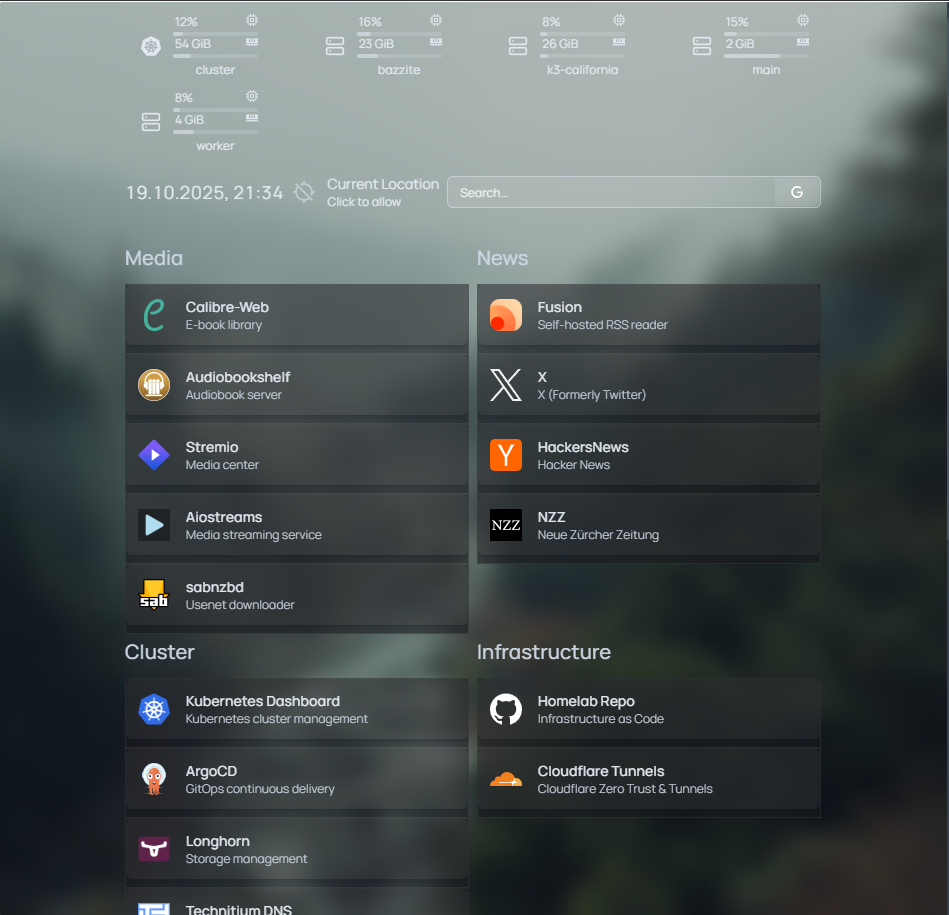
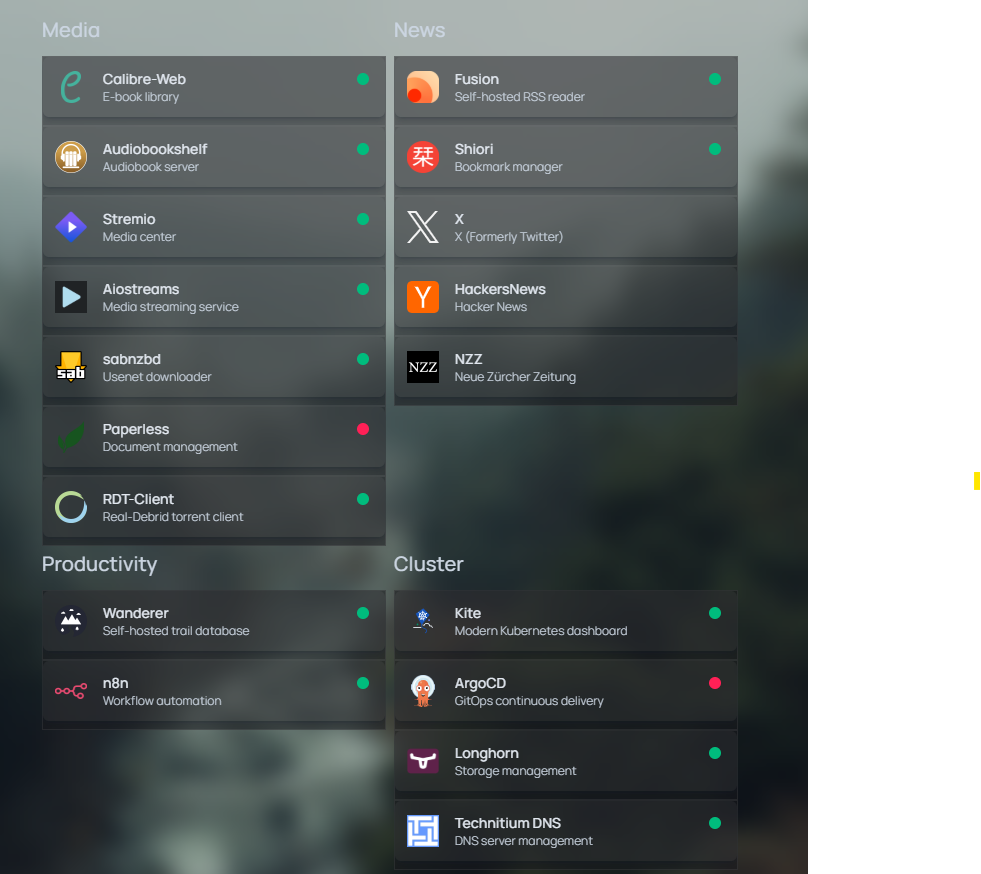
docs: updated Readme

diff --git a/README.md b/README.md
@@ -5,16 +5,15 @@ This repo contains backups, scripts, and documentationfor my hobby and education
 The cluster is configured with production like settings such as:
 
 - Automatic fail-over for all deployments and nodes, deployed on: 
-    - 5 nodes
+    - 6 nodes
     - Across 4 regions
     - Across 2 different providers + my home server
 - Ability to target deployment to a geographical location to optimize for latency with automatic fallback or do multi-region deployment
-- All data is replicated to two nodes by [Longhorn](https://longhorn.io/) and automatically backed-up to [Cloudflare R2](https://developers.cloudflare.com/r2/)
+- All data is replicated to two nodes by [Longhorn](https://longhorn.io/) and automatically backed-up to [Backblaze](https://www.backblaze.com/)
 - CD pipeline through [ArgoCD](https://argo-cd.readthedocs.io/en/stable/). Any changes in the apps folder will automatically be deployed
 - [Etcd](https://etcd.io/docs/v3.6/) (the state and configuration of the cluster) is automatically backed-up to [Cloudflare R2](https://developers.cloudflare.com/r2/)
 - Ingress is taking care of by [Cloudflare Tunnels](https://developers.cloudflare.com/cloudflare-one/connections/connect-networks/) with one instance per geographical region
-- Communication between the nodes is done through [Tailscale](https://tailscale.com/)
-- Alle nodes have 0 open, internet facing, ports
+- Communication between the nodes is done through the wireguard native backed (Running over Tailscale caused double encapsulation and hard to debug issues)
 - Joining new nodes to the cluster is a ~5 minute job
 - Secrets are [encrypted](https://kubernetes.io/docs/tasks/administer-cluster/encrypt-data/) and not stored in this repo ;)
 - [Mend Renovate](https://www.mend.io/renovate/) monitors this repo and automatically creates PRs for any software updates
@@ -22,6 +21,8 @@ The cluster is configured with production like settings such as:
 # Screenshots
 
 ![](docs/homepage-screenshot.png)
+![](docs/kite-screenshot.png)
+
 
 # Hardware
 
@@ -79,14 +80,12 @@ ansible-playbook -i hosts.ini site.yml -u root --private-key ~/.ssh/id_rsa_kuber
 
 ### Control-plane-node
 ```bash
-sudo systemctl enable --now iscsid
-
-curl -sfL https://get.k3s.io | INSTALL_K3S_CHANNEL=latest K3S_TOKEN=<TOKEN> sh -s - server \
-    --server https://<IP_ADDRESS_OF_NODE>:6443```
+curl -sfL https://get.k3s.io | INSTALL_K3S_CHANNEL=latest K3S_TOKEN=<TOKEN> sh -s - server --server https://<IP_ADDRESS_OF_NODE>:6443
+```
 
 ### Agent
 ```bash
-
+curl -sfL https://get.k3s.io | INSTALL_K3S_CHANNEL=latest K3S_URL=<IP_ADDRESS_OF_NODE> K3S_TOKEN=<TOKEN> sh -
 ```
 
 Ansible configures the nodes with the following:
